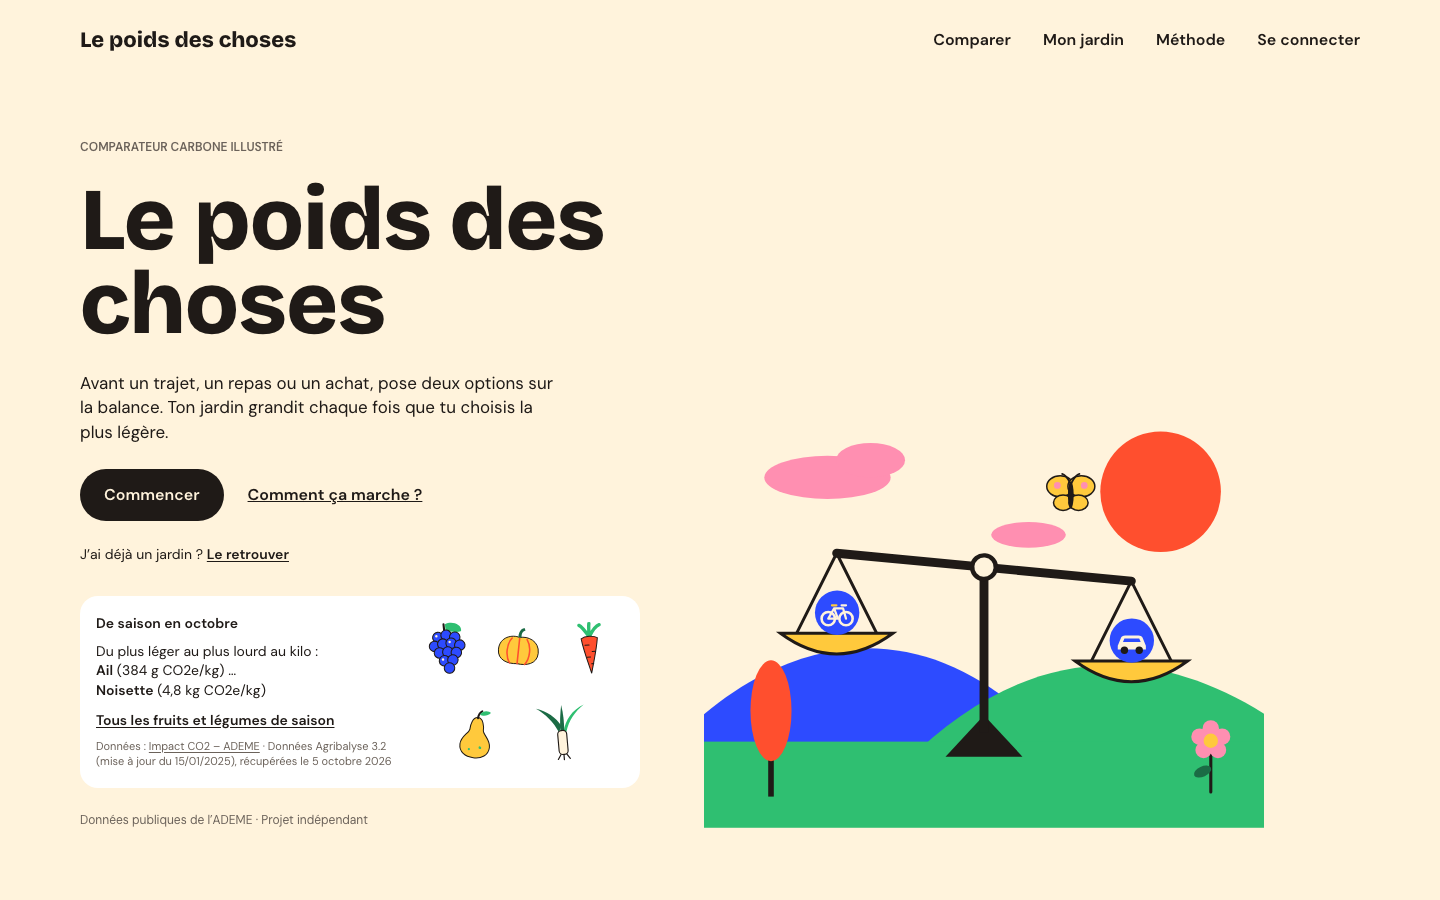
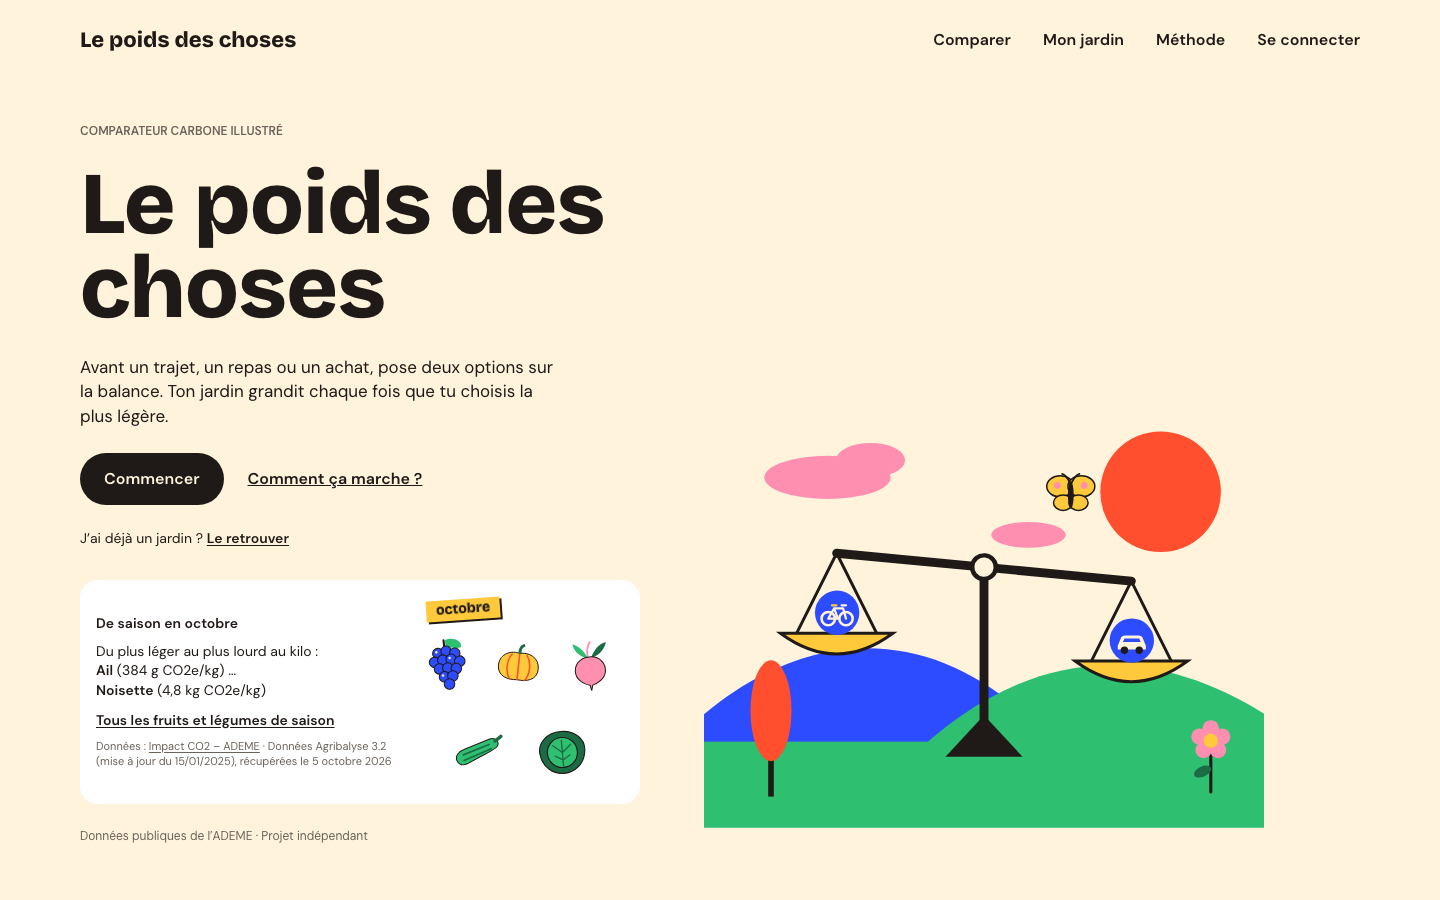
docs: CLAUDE.md, captures de l'accueil et journal des produits de saison

Changed region(s): [[0.0312, 0.4044, 0.4688, 0.7778], [0.0625, 0.1244, 0.4375, 0.3733], [0.0312, 0.7778, 0.4688, 0.9333]]

diff --git a/docs/journal.md b/docs/journal.md
@@ -1083,3 +1083,40 @@ sur les pages non touchées. Captures `accueil.png` et `accueil-mobile.png` rég
 - La formulation est découpée en titre (« De saison en octobre ») et texte (« Du plus
   léger au plus lourd au kilo : … ») : un titre de section reste lisible au lecteur d'écran.
 - Les valeurs sous 1 kg s'écrivent en grammes, comme sur /saison.
+
+## 2026-10-05 — Encart de saison : 14 produits dessinés de plus, étiquette du mois (branche feat/saison-produits)
+
+**Demandé** : ajouter les 14 dessins du zip `le-poids-des-choses-saison-2` (fraise, cerise,
+abricot, courgette, aubergine, melon, radis, asperge, petits-pois, chou, clémentine, kiwi,
+endive, betterave), compléter la table de correspondance avec les noms exacts des données
+(sans rien inventer), donner le tableau mois par mois des produits qui flottent (objectif :
+au moins 3), afficher le mois en étiquette de papier découpé près des produits, démo /labo.
+
+**Fait** :
+
+- 14 SVG 80×80 ajoutés aux specs (calques de chaque fichier), `pnpm illustrations`
+  (90 illustrations).
+- Les 14 produits existent dans `saison.generated.json` ; deux noms diffèrent du fichier :
+  `saison-petits-pois` → `petitpois` (« Petit pois »), `saison-clementine` → `clementine`
+  (« Clémentine »). « Chou » est le chou (pas le chou de Bruxelles ni le chou-fleur). Le
+  test de la table compare désormais nom du dessin et intitulé sans accents, tirets ni « s »
+  final, et vérifie que tout dessin `saison-*` est dans la table.
+- Mois par mois (tous les dessins de saison ; 5 flottent au plus, saison la plus courte
+  d'abord) : janvier 10, février 9, mars 9, avril 5, mai 6, juin 10, juillet 8, août 7,
+  septembre 10, octobre 10, novembre 9, décembre 9. Plus aucun mois sous 3 (mai, qui en
+  avait 0, en a 6) ; un test le garantit sur les données actuelles.
+- Étiquette du mois (« octobre ») au-dessus des produits : papier soleil, texte encre en
+  Bricolage, inclinée de -4°, ombre encre ; elle se pose comme les papiers de /methode
+  (`CUTOUT_ENTRY`) juste avant le fondu des produits ; aria-hidden (le titre dit déjà le
+  mois) ; hauteur réservée ; visible et immobile en mouvement réduit. Paire encre / soleil
+  déjà vérifiée par le test de contraste (usage ajouté à sa description).
+- /labo : le sélecteur de mois du panneau « Encart de saison » montre les nouveaux produits.
+- `e2e/partage.spec.ts` : le test « police de repli absente » lisait le partage juste après
+  le clic ; il échouait sous charge dans les passages complets (2 fois sur 3). Il attend
+  maintenant le partage (`expect.poll`).
+
+**Vérifications** : lint, typecheck, 647 tests unitaires, `STRICT_DATA=1 pnpm build`, CLS à
+0 sur / et /comparer (ordinateur et Pixel 7), bout en bout complet vert (144 passés,
+14 ignorés, Chromium et WebKit, axe compris). Lighthouse mobile sur `serve:out` (noindex) :
+Accueil 99 puis 100, Comparer 94-95, autres pages 93-100 ; accessibilité et bonnes
+pratiques 100. Captures `accueil.png` et `accueil-mobile.png` régénérées.

diff --git a/CLAUDE.md b/CLAUDE.md
@@ -297,13 +297,16 @@ Prettier, pnpm. Compte facultatif : Cloudflare Pages Functions (`functions/`) et
   (4,8 kg CO2e/kg) » (`seasonRange` : produits de saison ce mois-ci hors toute l'année,
   égalité → ordre alphabétique ; `formatPerKilo` = `formatMass` + espaces insécables), lien
   /saison et `DataCredit`. Fruits et légumes dessinés flottants (`FloatingProduce`,
-  `saison-*.svg` 80×80, pas de cagette) : correspondance `SEASON_DRAWINGS`
-  (`src/lib/saison/drawn.ts`), `drawnForMonth` (de saison ce mois-ci, saison la plus courte
+  21 `saison-*.svg` 80×80, pas de cagette) : correspondance `SEASON_DRAWINGS`
+  (`src/lib/saison/drawn.ts`, dessin → slug des données, ex. `saison-petits-pois` →
+  `petitpois` ; un dessin sans produit dans les données reste hors de la table ; testée,
+  au moins 3 dessins de saison chaque mois), `drawnForMonth` (de saison ce mois-ci, saison la plus courte
   d'abord, 5 au plus ; moins de 3 → toute l'année ; aucun → mois le plus proche) ; places,
   flottement et parallaxe dans `src/lib/geometry/float.ts` (sans chevauchement, testé) ;
   4-5 à droite dès 28rem de large (requête de conteneur), rangée de 3 en dessous, masqués
-  sous 15rem ; fondu décalé à l'entrée, rebond au toucher, pause onglet caché ou hors écran,
-  immobiles en mouvement réduit ; démo dans /labo.
+  sous 15rem ; au-dessus, le mois en étiquette de papier découpé (soleil, encre, posée comme
+  `PaperCutout`, aria-hidden) ; fondu décalé à l'entrée, rebond au toucher, pause onglet
+  caché ou hors écran, immobiles en mouvement réduit ; démo dans /labo.
 - Installation (PWA) : manifeste, icônes, bandeau « Garde ton jardin » sur /jardin
   (Android : invite `beforeinstallprompt` ; iPhone : « Partager, puis Sur l’écran
   d’accueil » ; masqué si installé ou fermé). Accès permanent « Installer l’appli »
